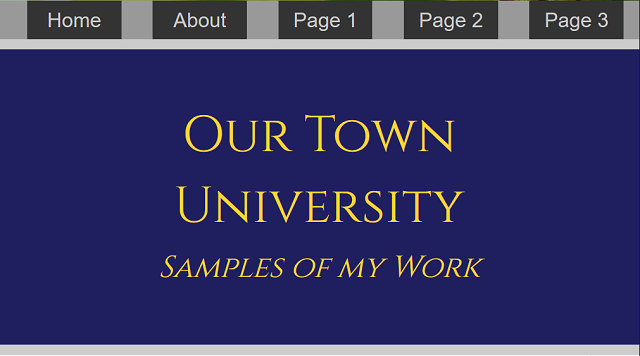
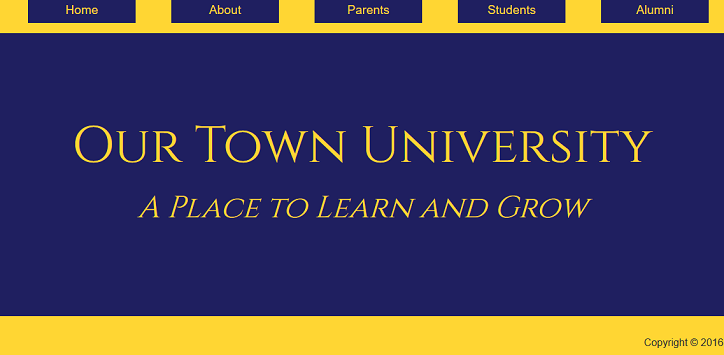
add dummy content and improve css

diff --git a/index.html b/index.html
@@ -11,19 +11,62 @@
   <link rel="stylesheet" href="css/main.css">
 </head>
 <body>
-  <nav>
-    <ul>
-      <li><a href="">Home</a></li>
-      <li><a href="">About</a></li>
-      <li><a href="">Page 1</a></li>
-      <li><a href="">Page 2</a></li>
-      <li><a href="">Page 3</a></li>
-    </ul>
-  </nav>
-  <section>
+<a name="top"></a>
+    <nav>
+        <ul>
+          <li><a href="#top">Home</a></li>
+          <li><a href="#about">About</a></li>
+          <li><a href="#parents">Parents</a></li>
+          <li><a href="#students">Students</a></li>
+          <li><a href="#alumni">Alumni</a></li>
+        </ul>
+      </nav>
+
+<div class="container">
+  <section class="headline">
     <h1>Our Town University</h1>
-    <h2>Samples of my Work</h2>
+    <h2>A Place to Learn and Grow</h2>
   </section>
+  <section class="info"><a name="about"></a><h3>About</h3>
+    <img src="http://lorempixel.com/420/300/city" class="thumbnail right" alt="placeholder image">
+    <p>Lorem ipsum dolor sit amet, consectetuer adipiscing elit. Aenean commodo ligula eget dolor. Aenean massa. Cum sociis natoque penatibus et magnis dis parturient montes, nascetur ridiculus mus. Donec quam felis, ultricies nec, pellentesque eu, pretium quis, sem. Nulla consequat massa quis enim. Donec pede justo, fringilla vel, aliquet nec, vulputate eget, arcu. In enim justo, rhoncus ut, imperdiet a, venenatis vitae, justo. Nullam dictum felis eu pede mollis pretium. Integer tincidunt. Cras dapibus.</p>
+    <p>Vivamus elementum semper nisi. Aenean vulputate eleifend tellus. Aenean leo ligula, porttitor eu, consequat vitae, eleifend ac, enim. Aliquam lorem ante, dapibus in, viverra quis, feugiat a, tellus. Phasellus viverra nulla ut metus varius laoreet. Quisque rutrum. Aenean imperdiet. Etiam ultricies nisi vel augue. Curabitur ullamcorper ultricies nisi. Nam eget dui. Etiam rhoncus. Maecenas tempus, tellus eget condimentum rhoncus, sem quam semper libero, sit amet adipiscing sem neque sed ipsum.</p>
+    <p>Nam quam nunc, blandit vel, luctus pulvinar, hendrerit id, lorem. Maecenas nec odio et ante tincidunt tempus. Donec vitae sapien ut libero venenatis faucibus. Nullam quis ante. Etiam sit amet orci eget eros faucibus tincidunt. Duis leo. Sed fringilla mauris sit amet nibh. Donec sodales sagittis magna. Sed consequat, leo eget bibendum sodales, augue velit cursus nunc, quis gravida magna mi a libero. Fusce vulputate eleifend sapien. Vestibulum purus quam, scelerisque ut, mollis sed, nonummy id, metus.</p>
+    <p>Nullam accumsan lorem in dui. Cras ultricies mi eu turpis hendrerit fringilla. Vestibulum ante ipsum primis in faucibus orci luctus et ultrices posuere cubilia Curae; In ac dui quis mi consectetuer lacinia. Nam pretium turpis et arcu. Duis arcu tortor, suscipit eget, imperdiet nec, imperdiet iaculis, ipsum. Sed aliquam ultrices mauris. Integer ante arcu, accumsan a, consectetuer eget, posuere ut, mauris. Praesent adipiscing. Phasellus ullamcorper ipsum rutrum nunc. Nunc nonummy metus.</p>
+    <p>Vestibulum volutpat pretium libero. Cras id dui. Aenean ut eros et nisl sagittis vestibulum. Nullam nulla eros, ultricies sit amet, nonummy id, imperdiet feugiat, pede. Sed lectus. Donec mollis hendrerit risus. Phasellus nec sem in justo pellentesque facilisis. Etiam imperdiet imperdiet orci. Nunc nec neque. Phasellus leo dolor, tempus non, auctor et, hendrerit quis, nisi. Curabitur ligula sapien, tincidunt non, euismod vitae, posuere imperdiet, leo. Maecenas malesuada. Praesent congue erat at massa.</p>
+    <p>Sed cursus turpis vitae tortor. Donec posuere vulputate arcu. Phasellus accumsan cursus velit. Vestibulum ante ipsum primis in faucibus orci luctus et ultrices posuere cubilia Curae; Sed aliquam, nisi quis porttitor congue, elit erat euismod orci, ac placerat dolor lectus quis orci. Phasellus consectetuer vestibulum elit. Aenean tellus metus, bibendum sed, posuere ac, mattis non, nunc. Vestibulum fringilla pede sit amet augue. In turpis. Pellentesque posuere. Praesent turpis. Aenean posuere, tortor sed cursus feugiat, nunc augue blandit nunc, eu sollicitudin urna dolor sagittis lacus. Donec elit libero, sodales nec, volutpat a, suscipit non, turpis. Nullam sagittis. Suspendisse pulvinar, augue ac venenatis condimentum, sem libero volutpat nibh, nec pellentesque velit pede quis nunc. Vestibulum ante ipsum primis in faucibus orci luctus et ultrices posuere cubilia Curae; Fusce id purus. Ut varius tincidunt libero. Phasellus dolor. Maecenas vestibulum mollis</p>
+  </section>
+  <section class="info"><a name="parents"></a><h3>Parents</h3>
+    <img src="http://lorempixel.com/420/300/sports" class="thumbnail left" alt="placeholder image">
+    <p>Lorem ipsum dolor sit amet, consectetuer adipiscing elit. Aenean commodo ligula eget dolor. Aenean massa. Cum sociis natoque penatibus et magnis dis parturient montes, nascetur ridiculus mus. Donec quam felis, ultricies nec, pellentesque eu, pretium quis, sem. Nulla consequat massa quis enim. Donec pede justo, fringilla vel, aliquet nec, vulputate eget, arcu. In enim justo, rhoncus ut, imperdiet a, venenatis vitae, justo. Nullam dictum felis eu pede mollis pretium. Integer tincidunt. Cras dapibus.</p>
+    <p>Vivamus elementum semper nisi. Aenean vulputate eleifend tellus. Aenean leo ligula, porttitor eu, consequat vitae, eleifend ac, enim. Aliquam lorem ante, dapibus in, viverra quis, feugiat a, tellus. Phasellus viverra nulla ut metus varius laoreet. Quisque rutrum. Aenean imperdiet. Etiam ultricies nisi vel augue. Curabitur ullamcorper ultricies nisi. Nam eget dui. Etiam rhoncus. Maecenas tempus, tellus eget condimentum rhoncus, sem quam semper libero, sit amet adipiscing sem neque sed ipsum.</p>
+    <p>Nam quam nunc, blandit vel, luctus pulvinar, hendrerit id, lorem. Maecenas nec odio et ante tincidunt tempus. Donec vitae sapien ut libero venenatis faucibus. Nullam quis ante. Etiam sit amet orci eget eros faucibus tincidunt. Duis leo. Sed fringilla mauris sit amet nibh. Donec sodales sagittis magna. Sed consequat, leo eget bibendum sodales, augue velit cursus nunc, quis gravida magna mi a libero. Fusce vulputate eleifend sapien. Vestibulum purus quam, scelerisque ut, mollis sed, nonummy id, metus.</p>
+    <p>Nullam accumsan lorem in dui. Cras ultricies mi eu turpis hendrerit fringilla. Vestibulum ante ipsum primis in faucibus orci luctus et ultrices posuere cubilia Curae; In ac dui quis mi consectetuer lacinia. Nam pretium turpis et arcu. Duis arcu tortor, suscipit eget, imperdiet nec, imperdiet iaculis, ipsum. Sed aliquam ultrices mauris. Integer ante arcu, accumsan a, consectetuer eget, posuere ut, mauris. Praesent adipiscing. Phasellus ullamcorper ipsum rutrum nunc. Nunc nonummy metus.</p>
+    <p>Vestibulum volutpat pretium libero. Cras id dui. Aenean ut eros et nisl sagittis vestibulum. Nullam nulla eros, ultricies sit amet, nonummy id, imperdiet feugiat, pede. Sed lectus. Donec mollis hendrerit risus. Phasellus nec sem in justo pellentesque facilisis. Etiam imperdiet imperdiet orci. Nunc nec neque. Phasellus leo dolor, tempus non, auctor et, hendrerit quis, nisi. Curabitur ligula sapien, tincidunt non, euismod vitae, posuere imperdiet, leo. Maecenas malesuada. Praesent congue erat at massa.</p>
+    <p>Sed cursus turpis vitae tortor. Donec posuere vulputate arcu. Phasellus accumsan cursus velit. Vestibulum ante ipsum primis in faucibus orci luctus et ultrices posuere cubilia Curae; Sed aliquam, nisi quis porttitor congue, elit erat euismod orci, ac placerat dolor lectus quis orci. Phasellus consectetuer vestibulum elit. Aenean tellus metus, bibendum sed, posuere ac, mattis non, nunc. Vestibulum fringilla pede sit amet augue. In turpis. Pellentesque posuere. Praesent turpis. Aenean posuere, tortor sed cursus feugiat, nunc augue blandit nunc, eu sollicitudin urna dolor sagittis lacus. Donec elit libero, sodales nec, volutpat a, suscipit non, turpis. Nullam sagittis. Suspendisse pulvinar, augue ac venenatis condimentum, sem libero volutpat nibh, nec pellentesque velit pede quis nunc. Vestibulum ante ipsum primis in faucibus orci luctus et ultrices posuere cubilia Curae; Fusce id purus. Ut varius tincidunt libero. Phasellus dolor. Maecenas vestibulum mollis</p>
+  </section>
+  <section class="info"><a name="students"></a><h3>Students</h3>
+    <img src="http://lorempixel.com/420/300/people" class="thumbnail right" alt="placeholder image">
+    <p>Lorem ipsum dolor sit amet, consectetuer adipiscing elit. Aenean commodo ligula eget dolor. Aenean massa. Cum sociis natoque penatibus et magnis dis parturient montes, nascetur ridiculus mus. Donec quam felis, ultricies nec, pellentesque eu, pretium quis, sem. Nulla consequat massa quis enim. Donec pede justo, fringilla vel, aliquet nec, vulputate eget, arcu. In enim justo, rhoncus ut, imperdiet a, venenatis vitae, justo. Nullam dictum felis eu pede mollis pretium. Integer tincidunt. Cras dapibus.</p>
+    <p>Vivamus elementum semper nisi. Aenean vulputate eleifend tellus. Aenean leo ligula, porttitor eu, consequat vitae, eleifend ac, enim. Aliquam lorem ante, dapibus in, viverra quis, feugiat a, tellus. Phasellus viverra nulla ut metus varius laoreet. Quisque rutrum. Aenean imperdiet. Etiam ultricies nisi vel augue. Curabitur ullamcorper ultricies nisi. Nam eget dui. Etiam rhoncus. Maecenas tempus, tellus eget condimentum rhoncus, sem quam semper libero, sit amet adipiscing sem neque sed ipsum.</p>
+    <p>Nam quam nunc, blandit vel, luctus pulvinar, hendrerit id, lorem. Maecenas nec odio et ante tincidunt tempus. Donec vitae sapien ut libero venenatis faucibus. Nullam quis ante. Etiam sit amet orci eget eros faucibus tincidunt. Duis leo. Sed fringilla mauris sit amet nibh. Donec sodales sagittis magna. Sed consequat, leo eget bibendum sodales, augue velit cursus nunc, quis gravida magna mi a libero. Fusce vulputate eleifend sapien. Vestibulum purus quam, scelerisque ut, mollis sed, nonummy id, metus.</p>
+    <p>Nullam accumsan lorem in dui. Cras ultricies mi eu turpis hendrerit fringilla. Vestibulum ante ipsum primis in faucibus orci luctus et ultrices posuere cubilia Curae; In ac dui quis mi consectetuer lacinia. Nam pretium turpis et arcu. Duis arcu tortor, suscipit eget, imperdiet nec, imperdiet iaculis, ipsum. Sed aliquam ultrices mauris. Integer ante arcu, accumsan a, consectetuer eget, posuere ut, mauris. Praesent adipiscing. Phasellus ullamcorper ipsum rutrum nunc. Nunc nonummy metus.</p>
+    <p>Vestibulum volutpat pretium libero. Cras id dui. Aenean ut eros et nisl sagittis vestibulum. Nullam nulla eros, ultricies sit amet, nonummy id, imperdiet feugiat, pede. Sed lectus. Donec mollis hendrerit risus. Phasellus nec sem in justo pellentesque facilisis. Etiam imperdiet imperdiet orci. Nunc nec neque. Phasellus leo dolor, tempus non, auctor et, hendrerit quis, nisi. Curabitur ligula sapien, tincidunt non, euismod vitae, posuere imperdiet, leo. Maecenas malesuada. Praesent congue erat at massa.</p>
+    <p>Sed cursus turpis vitae tortor. Donec posuere vulputate arcu. Phasellus accumsan cursus velit. Vestibulum ante ipsum primis in faucibus orci luctus et ultrices posuere cubilia Curae; Sed aliquam, nisi quis porttitor congue, elit erat euismod orci, ac placerat dolor lectus quis orci. Phasellus consectetuer vestibulum elit. Aenean tellus metus, bibendum sed, posuere ac, mattis non, nunc. Vestibulum fringilla pede sit amet augue. In turpis. Pellentesque posuere. Praesent turpis. Aenean posuere, tortor sed cursus feugiat, nunc augue blandit nunc, eu sollicitudin urna dolor sagittis lacus. Donec elit libero, sodales nec, volutpat a, suscipit non, turpis. Nullam sagittis. Suspendisse pulvinar, augue ac venenatis condimentum, sem libero volutpat nibh, nec pellentesque velit pede quis nunc. Vestibulum ante ipsum primis in faucibus orci luctus et ultrices posuere cubilia Curae; Fusce id purus. Ut varius tincidunt libero. Phasellus dolor. Maecenas vestibulum mollis</p>
+  </section>
+  <section class="info"><a name="alumni"></a><h3>Alumni</h3>
+    <img src="http://lorempixel.com/420/300/business" class="thumbnail left" alt="placeholder image">
+    <p>Lorem ipsum dolor sit amet, consectetuer adipiscing elit. Aenean commodo ligula eget dolor. Aenean massa. Cum sociis natoque penatibus et magnis dis parturient montes, nascetur ridiculus mus. Donec quam felis, ultricies nec, pellentesque eu, pretium quis, sem. Nulla consequat massa quis enim. Donec pede justo, fringilla vel, aliquet nec, vulputate eget, arcu. In enim justo, rhoncus ut, imperdiet a, venenatis vitae, justo. Nullam dictum felis eu pede mollis pretium. Integer tincidunt. Cras dapibus.</p>
+    <p>Vivamus elementum semper nisi. Aenean vulputate eleifend tellus. Aenean leo ligula, porttitor eu, consequat vitae, eleifend ac, enim. Aliquam lorem ante, dapibus in, viverra quis, feugiat a, tellus. Phasellus viverra nulla ut metus varius laoreet. Quisque rutrum. Aenean imperdiet. Etiam ultricies nisi vel augue. Curabitur ullamcorper ultricies nisi. Nam eget dui. Etiam rhoncus. Maecenas tempus, tellus eget condimentum rhoncus, sem quam semper libero, sit amet adipiscing sem neque sed ipsum.</p>
+    <p>Nam quam nunc, blandit vel, luctus pulvinar, hendrerit id, lorem. Maecenas nec odio et ante tincidunt tempus. Donec vitae sapien ut libero venenatis faucibus. Nullam quis ante. Etiam sit amet orci eget eros faucibus tincidunt. Duis leo. Sed fringilla mauris sit amet nibh. Donec sodales sagittis magna. Sed consequat, leo eget bibendum sodales, augue velit cursus nunc, quis gravida magna mi a libero. Fusce vulputate eleifend sapien. Vestibulum purus quam, scelerisque ut, mollis sed, nonummy id, metus.</p>
+    <p>Nullam accumsan lorem in dui. Cras ultricies mi eu turpis hendrerit fringilla. Vestibulum ante ipsum primis in faucibus orci luctus et ultrices posuere cubilia Curae; In ac dui quis mi consectetuer lacinia. Nam pretium turpis et arcu. Duis arcu tortor, suscipit eget, imperdiet nec, imperdiet iaculis, ipsum. Sed aliquam ultrices mauris. Integer ante arcu, accumsan a, consectetuer eget, posuere ut, mauris. Praesent adipiscing. Phasellus ullamcorper ipsum rutrum nunc. Nunc nonummy metus.</p>
+    <p>Vestibulum volutpat pretium libero. Cras id dui. Aenean ut eros et nisl sagittis vestibulum. Nullam nulla eros, ultricies sit amet, nonummy id, imperdiet feugiat, pede. Sed lectus. Donec mollis hendrerit risus. Phasellus nec sem in justo pellentesque facilisis. Etiam imperdiet imperdiet orci. Nunc nec neque. Phasellus leo dolor, tempus non, auctor et, hendrerit quis, nisi. Curabitur ligula sapien, tincidunt non, euismod vitae, posuere imperdiet, leo. Maecenas malesuada. Praesent congue erat at massa.</p>
+    <p>Sed cursus turpis vitae tortor. Donec posuere vulputate arcu. Phasellus accumsan cursus velit. Vestibulum ante ipsum primis in faucibus orci luctus et ultrices posuere cubilia Curae; Sed aliquam, nisi quis porttitor congue, elit erat euismod orci, ac placerat dolor lectus quis orci. Phasellus consectetuer vestibulum elit. Aenean tellus metus, bibendum sed, posuere ac, mattis non, nunc. Vestibulum fringilla pede sit amet augue. In turpis. Pellentesque posuere. Praesent turpis. Aenean posuere, tortor sed cursus feugiat, nunc augue blandit nunc, eu sollicitudin urna dolor sagittis lacus. Donec elit libero, sodales nec, volutpat a, suscipit non, turpis. Nullam sagittis. Suspendisse pulvinar, augue ac venenatis condimentum, sem libero volutpat nibh, nec pellentesque velit pede quis nunc. Vestibulum ante ipsum primis in faucibus orci luctus et ultrices posuere cubilia Curae; Fusce id purus. Ut varius tincidunt libero. Phasellus dolor. Maecenas vestibulum mollis</p>
+  </section>
+</div>
+<footer>
+  <br>Copyright &copy; 2016
+</footer>
   <script src="js/vendor/jquery.js"></script>
   <script src="js/vendor/what-input.js"></script>
   <script src="js/vendor/foundation.js"></script>

diff --git a/css/main.css b/css/main.css
@@ -1,16 +1,20 @@
 body {
   font-size: 1em;
-  background-color: #ccc;
-  color: #000;
-  margin: 0;
+  background-color: #fff;
+  color: #333;
+  padding: 50px 0;
 }
+
 nav {
-  background-color: #999;
+  background-color: #ffd633;
   width: 100%;
+  position: fixed;
+  top: 0;
+  z-index: 100;
 }
 ul {
   display: flex;
-  justify-content: space-around;
+  justify-content: space-around;;
 }
 li {
   display: inline-block;
@@ -18,17 +22,32 @@ li {
   padding: 5px;
   width: 15%;
   text-align: center;
-  background-color: #333;
+  background-color: #1f1f60;
 }
 li a {
-  color: #ccc;
+  color: #ffd633;
   text-decoration: none;
-  font-size: 2em;
+  font-size: 1.2em;
 }
-section {
+.container {
+
+}
+.right {
+  float: right;
+  width: 420px;
+  height: 300px;
+  margin: 3px 5px;
+}
+.left {
+  float: left;
+  width: 420px;
+  height: 300px;
+  margin: 3px 5px;
+}
+.headline {
   background-color: #1f1f60;
   color: #ffd633;
-  padding: 5em 5%;
+  padding: 8em 5%;
 }
 h1, h2 {
   text-align: center;
@@ -40,4 +59,23 @@ h1 {
 h2 {
   font-size: 3em;
   font-style: italic;
+}
+
+.info {
+  padding: 5%;
+}
+
+h3 {
+  margin-top: 50px;
+}
+
+footer {
+  position: fixed;
+  bottom: 0;
+  z-index: 75;
+  height: 65px;
+  width: 100%;
+  text-align: right;
+  padding: 5px;
+  background-color: #ffd633;
 }
